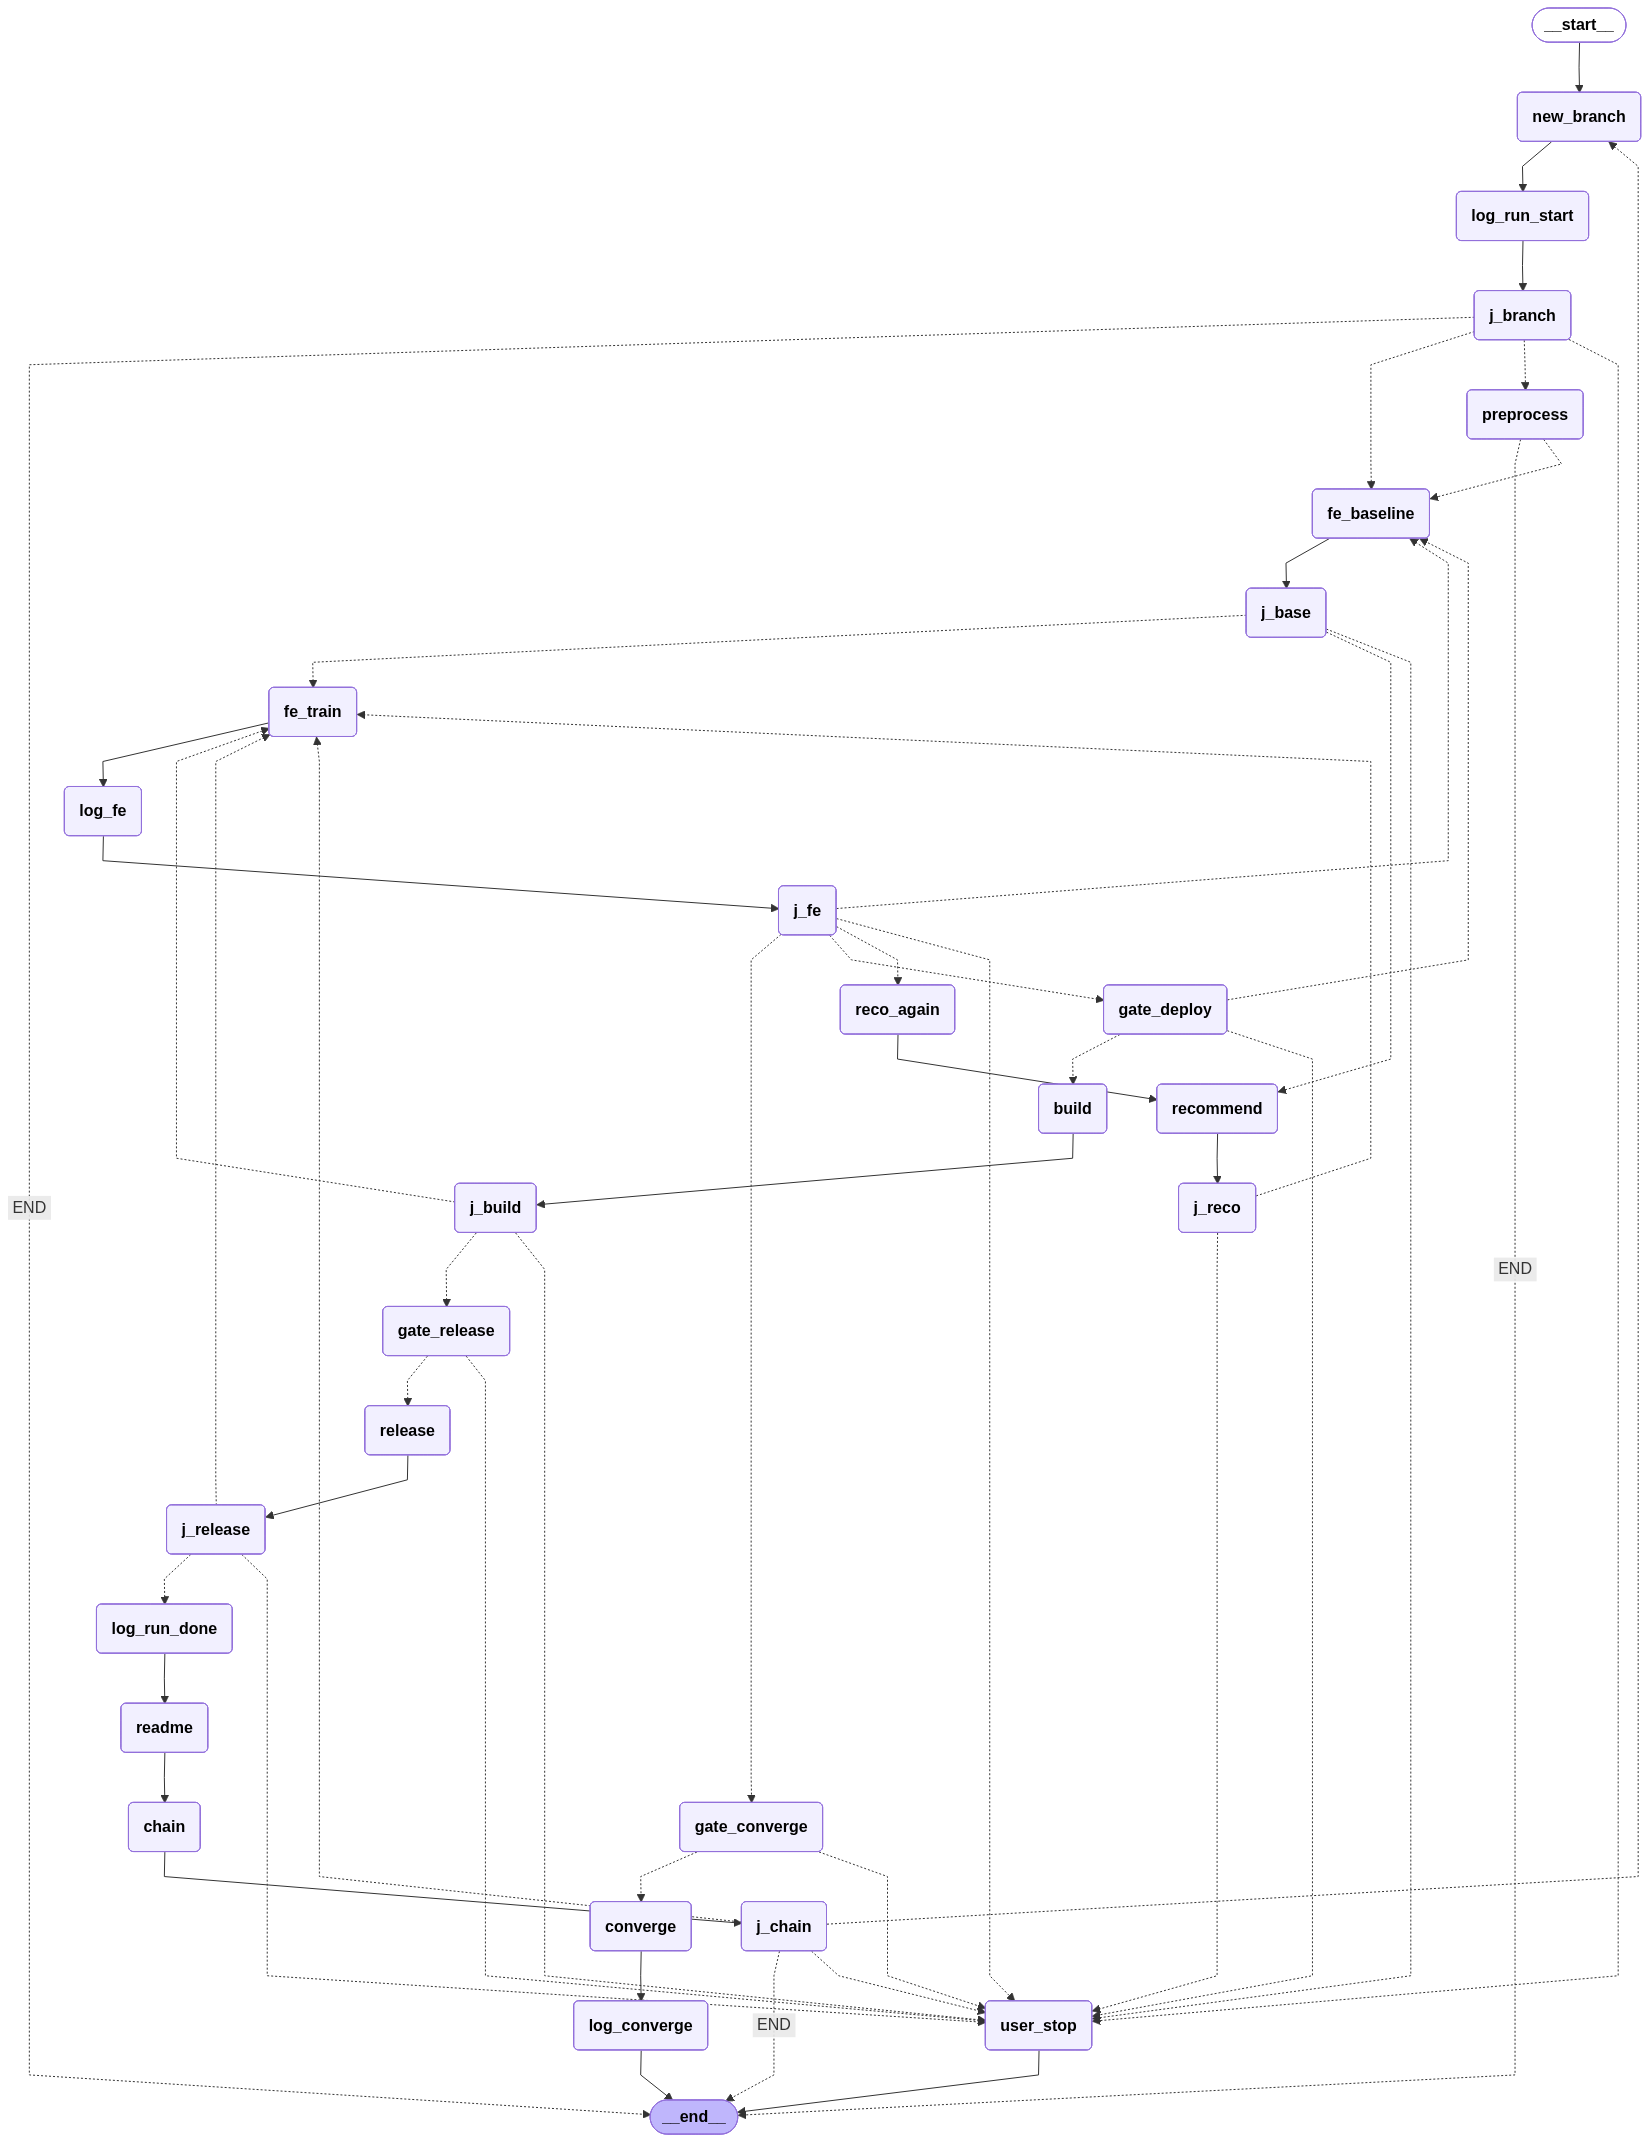
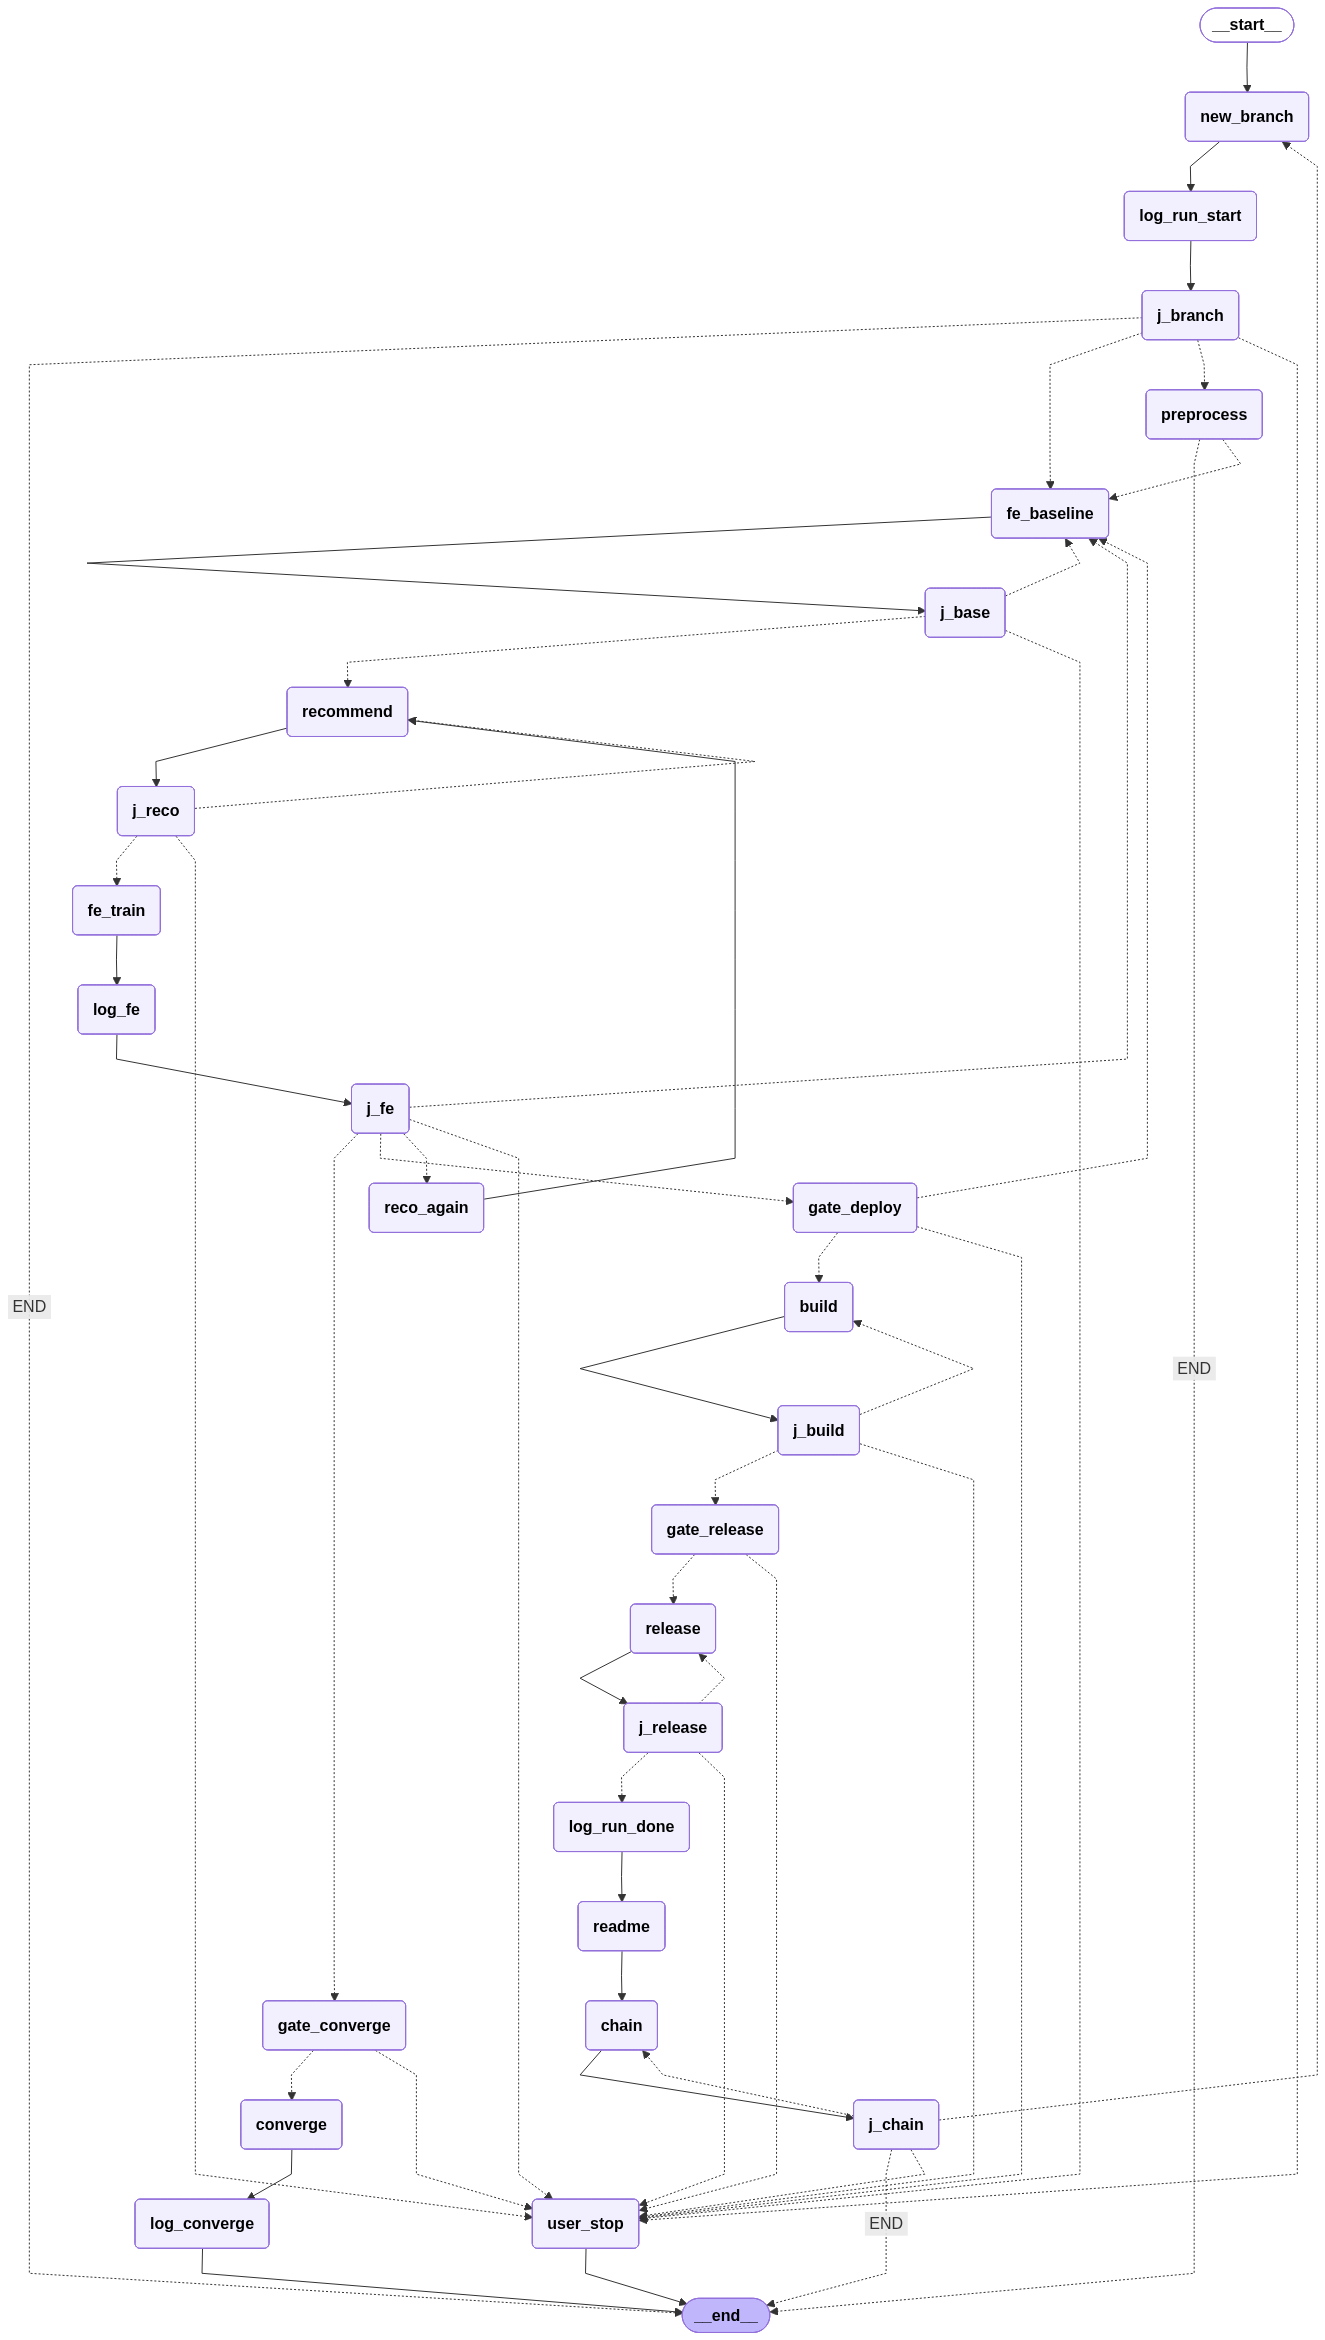
fix(orchestrator): judge retry re-runs its own node (was always fe_train)
_route_judge(continue_to, retry_to): retry now re-executes the judged node —
j_base->fe_baseline, j_reco->recommend, j_build->build, j_release->release,
j_chain->chain (idempotent). Previously every judge's retry jumped to fe_train,
e.g. a baseline retry entered candidate scan with zero candidates. j_fe keeps
its dedicated router (retry->fe_baseline re-diagnosis). Mermaids/PNG synced.

diff --git a/ml/orchestrator.py b/ml/orchestrator.py
@@ -300,14 +300,17 @@ def claude_judge(stage: str, ctx_fn):
     return node
 
 
-def _route_judge(continue_to: str):
-    """판정 verdict → continue_to / fe_train(retry) / user_stop(stop)."""
+def _route_judge(continue_to: str, retry_to: str):
+    """판정 verdict → continue_to / retry_to / user_stop(stop).
+
+    retry 는 **직전 노드 재실행** — 예전엔 일률 fe_train 으로 보내
+    j_base retry 가 후보 0인 채 스캔에 진입하는 등 비논리적이었다."""
     def route(state: PipelineState) -> str:
         d = state.get("decision", "continue")
         if d == "stop":
             return "user_stop"
         if d == "retry":
-            return "fe_train"
+            return retry_to
         return continue_to
     return route
 
@@ -661,7 +664,7 @@ def route_after_chain(state: PipelineState) -> str:
     if d == "stop":
         return "user_stop"
     if d == "retry":
-        return "fe_train"
+        return "chain"   # 직전 노드 재실행 (fe_state 저장은 멱등)
     if state.get("iters", 0) >= RT.args.max_runs:
         RT.bot.log(f"⚠ 안전 상한 {RT.args.max_runs} 도달 — 체이닝 종료", "warning")
         return "END"
@@ -749,11 +752,11 @@ def build_graph(checkpointer=None):
                             {"fe_baseline": "fe_baseline", "END": END})
 
     g.add_edge("fe_baseline", "j_base")
-    g.add_conditional_edges("j_base", _route_judge("recommend"),
-                            {"recommend": "recommend", "fe_train": "fe_train", "user_stop": "user_stop"})
+    g.add_conditional_edges("j_base", _route_judge("recommend", retry_to="fe_baseline"),
+                            {"recommend": "recommend", "fe_baseline": "fe_baseline", "user_stop": "user_stop"})
     g.add_edge("recommend", "j_reco")
-    g.add_conditional_edges("j_reco", _route_judge("fe_train"),
-                            {"fe_train": "fe_train", "user_stop": "user_stop"})
+    g.add_conditional_edges("j_reco", _route_judge("fe_train", retry_to="recommend"),
+                            {"fe_train": "fe_train", "recommend": "recommend", "user_stop": "user_stop"})
 
     g.add_edge("fe_train", "log_fe")
     g.add_edge("log_fe", "j_fe")
@@ -766,18 +769,18 @@ def build_graph(checkpointer=None):
     g.add_conditional_edges("gate_deploy", route_gate_deploy,
                             {"build": "build", "fe_baseline": "fe_baseline", "user_stop": "user_stop"})
     g.add_edge("build", "j_build")
-    g.add_conditional_edges("j_build", _route_judge("gate_release"),
-                            {"gate_release": "gate_release", "fe_train": "fe_train", "user_stop": "user_stop"})
+    g.add_conditional_edges("j_build", _route_judge("gate_release", retry_to="build"),
+                            {"gate_release": "gate_release", "build": "build", "user_stop": "user_stop"})
     g.add_conditional_edges("gate_release", route_gate_release,
                             {"release": "release", "user_stop": "user_stop"})
     g.add_edge("release", "j_release")
-    g.add_conditional_edges("j_release", _route_judge("log_run_done"),
-                            {"log_run_done": "log_run_done", "fe_train": "fe_train", "user_stop": "user_stop"})
+    g.add_conditional_edges("j_release", _route_judge("log_run_done", retry_to="release"),
+                            {"log_run_done": "log_run_done", "release": "release", "user_stop": "user_stop"})
     g.add_edge("log_run_done", "readme")
     g.add_edge("readme", "chain")
     g.add_edge("chain", "j_chain")
     g.add_conditional_edges("j_chain", route_after_chain,
-                            {"new_branch": "new_branch", "fe_train": "fe_train",
+                            {"new_branch": "new_branch", "chain": "chain",
                              "user_stop": "user_stop", "END": END})
 
     g.add_conditional_edges("gate_converge", route_gate_converge,
